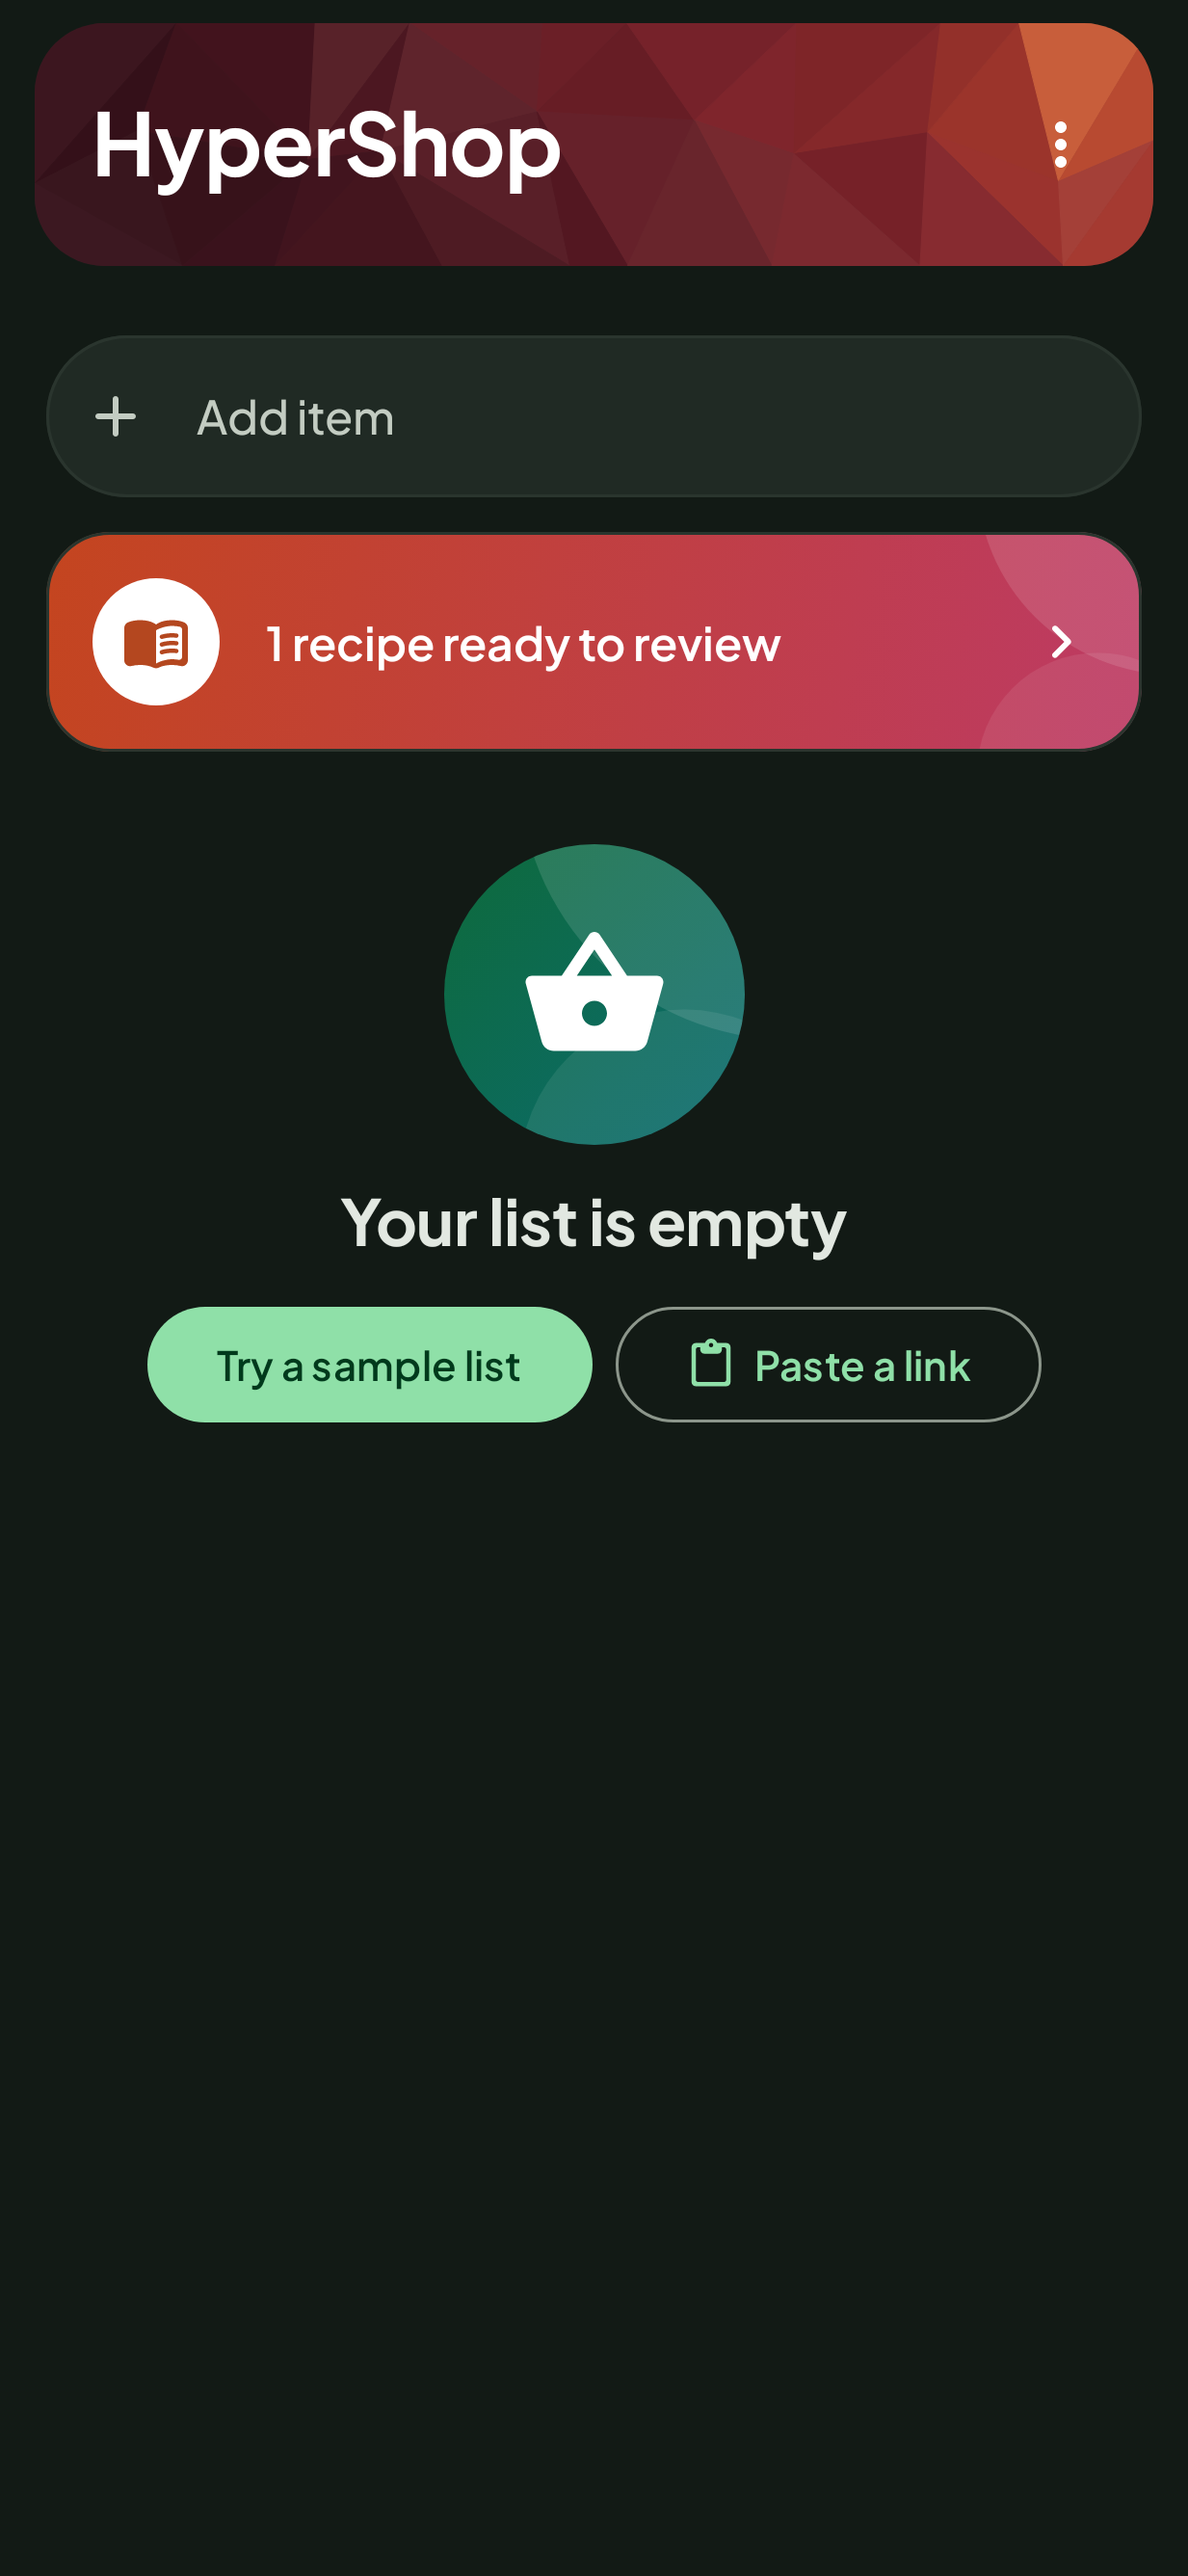
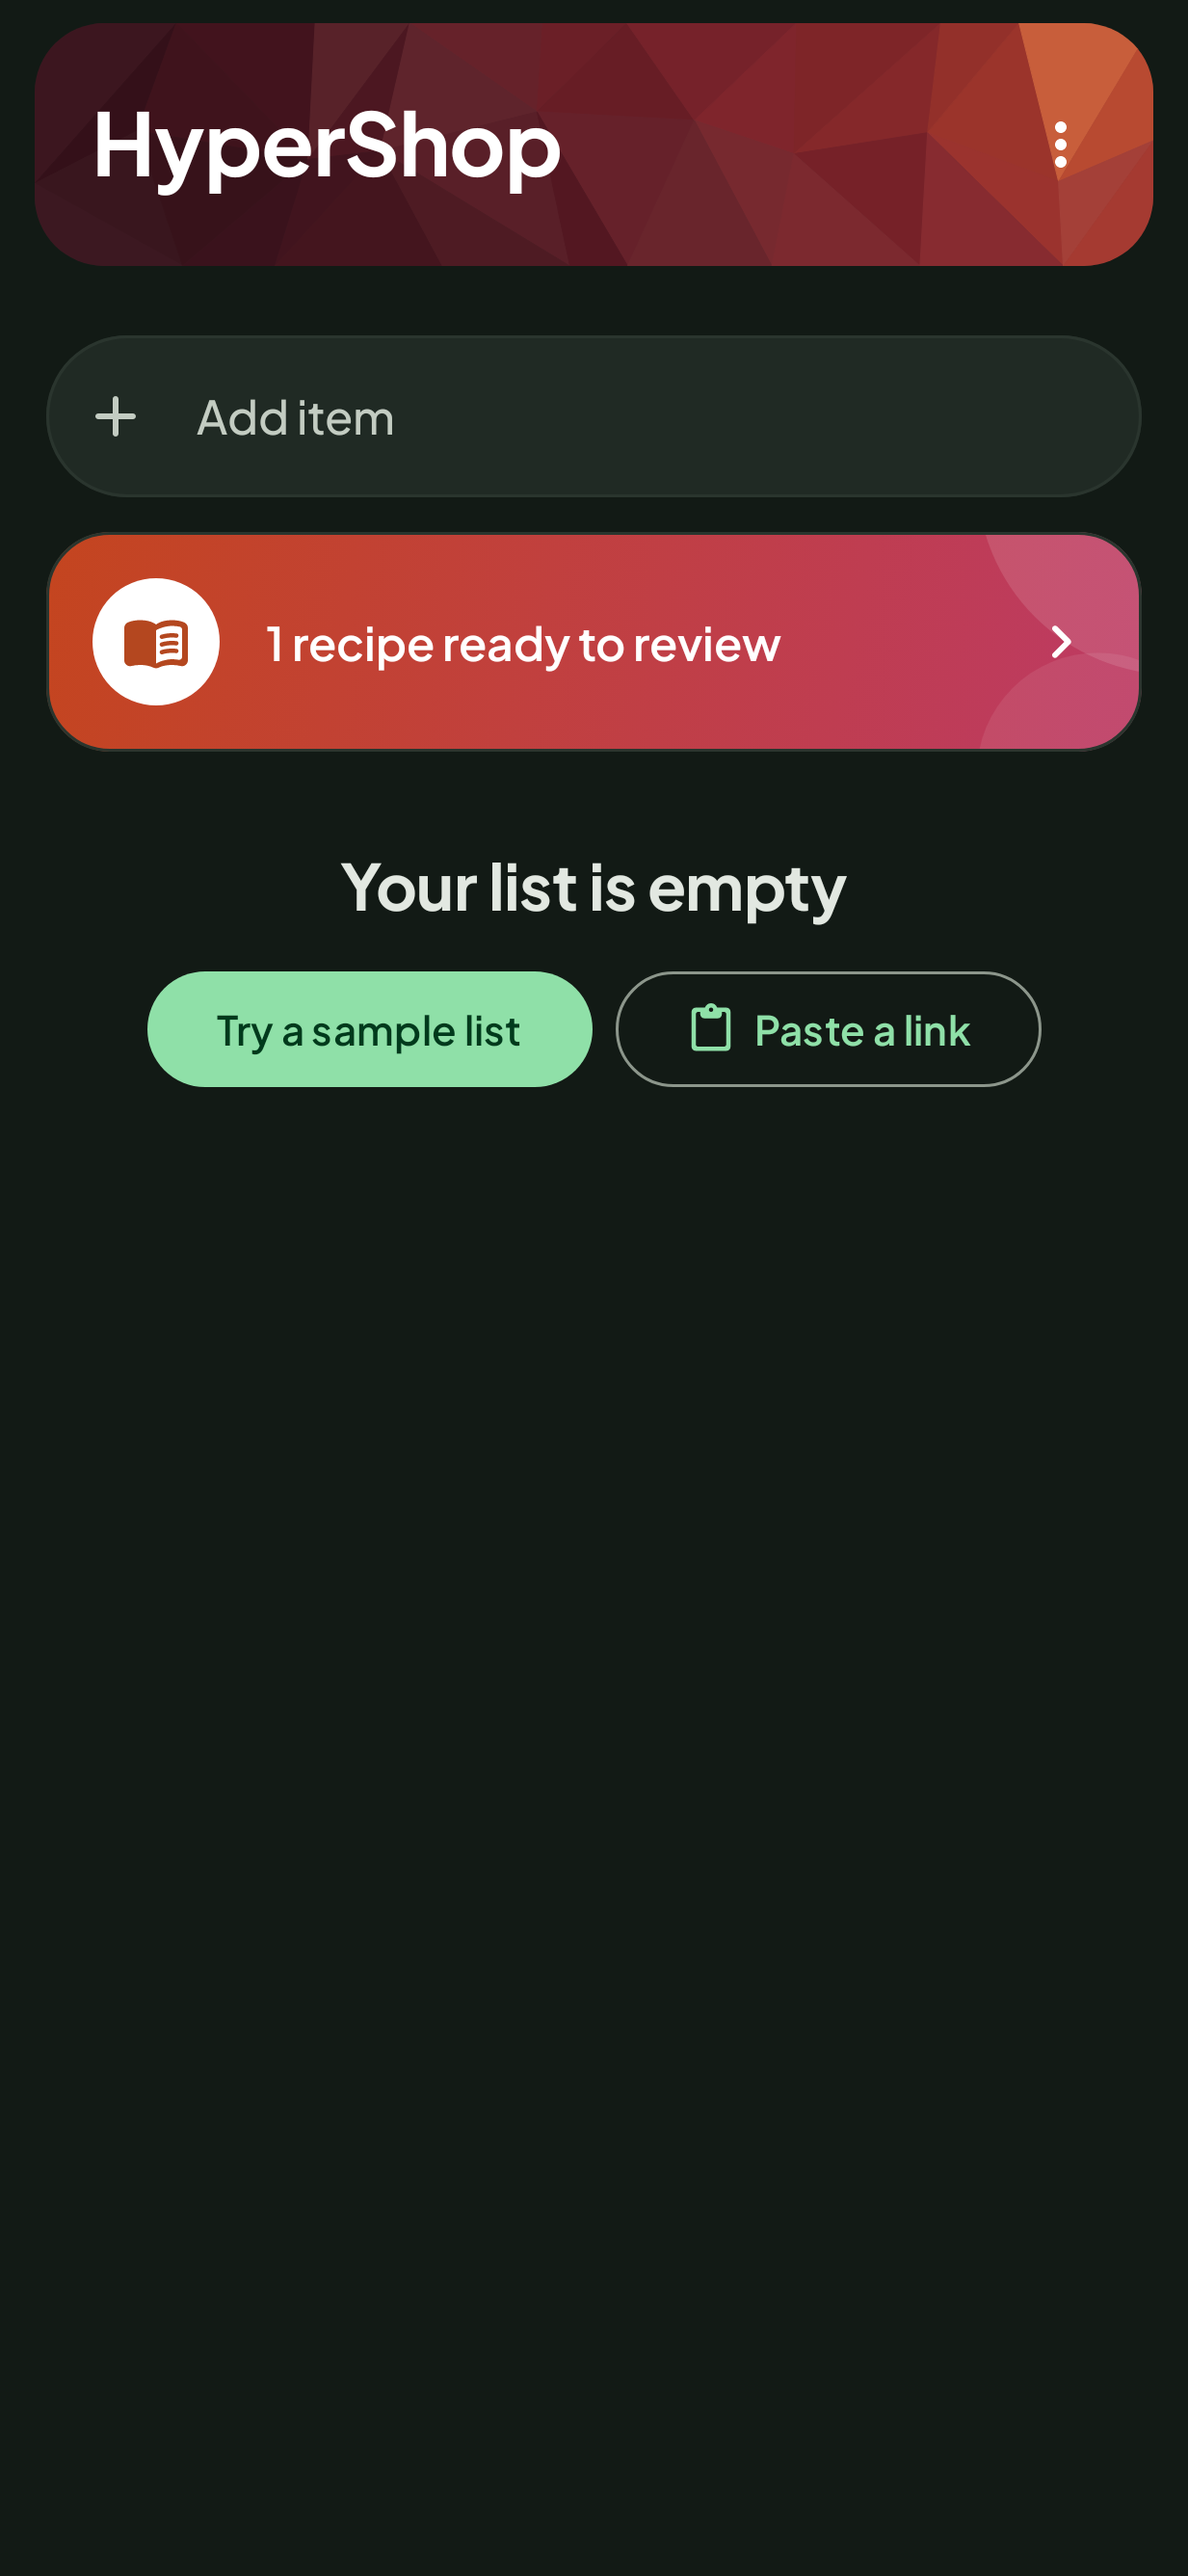
[fix] Quiet ticks, recipes stay once bought, plain empty states
From real use:
- No snackbar on a tick: tapping again is the undo, and the popup covered
  the bottom of the list on every tick.
- A recipe stays on the Recipes tab once all its items are bought, marked
  "All bought", as the week's reminder of what to cook. It goes with
  Remove from list, or the 7-day archive at Finish shopping. The
  hand-added card still goes with its last item.
- The empty list (and empty Recipes tab) lose the icon in a green circle.

Claude-Session: https://claude.ai/code/session_016z2Qp5Lw5mkgJm6Jzuit5a

Changed region(s): [[0.1233, 0.3105, 0.8321, 0.5589], [0.6472, 0.5279, 0.8321, 0.5589]]

diff --git a/android/app/src/main/java/com/robert4lyf/hypershop/ui/recipes/RecipesRoute.kt b/android/app/src/main/java/com/robert4lyf/hypershop/ui/recipes/RecipesRoute.kt
@@ -25,6 +25,7 @@ import androidx.compose.material.icons.automirrored.rounded.MenuBook
 import androidx.compose.material.icons.automirrored.rounded.OpenInNew
 import androidx.compose.material.icons.rounded.Add
 import androidx.compose.material.icons.rounded.Close
+import androidx.compose.material.icons.rounded.DoneAll
 import androidx.compose.material.icons.rounded.Edit
 import androidx.compose.material.icons.rounded.Inventory
 import androidx.compose.material.icons.rounded.Link
@@ -233,10 +234,7 @@ fun RecipesScreen(
                 }
                 if (ui.loaded && ui.uses.isEmpty() && !ui.hasLibrary) {
                     item(key = "empty") {
-                        EmptyHero(
-                            Icons.AutoMirrored.Rounded.MenuBook,
-                            "No recipes yet",
-                        )
+                        EmptyHero("No recipes yet")
                     }
                 }
                 if (ui.hasLibrary) {
@@ -596,7 +594,7 @@ private fun UseCard(
                 val bits =
                     listOfNotNull(
                         use.servings?.let { "Serves $it" },
-                        if (use.itemCount == 1) "1 item on the list" else "${use.itemCount} items on the list",
+                        itemsLine(use.itemCount),
                         use.inStockCount.takeIf { it > 0 }?.let { "$it in stock" },
                     )
                 FlowRow(
@@ -607,7 +605,11 @@ private fun UseCard(
                     val bg = Brand.tint(hue, dark)
                     val fg = Brand.strong(hue, dark)
                     use.servings?.let { Fact(Icons.Rounded.People, "Serves $it", bg, fg) }
-                    Fact(Icons.Rounded.ShoppingCart, if (use.itemCount == 1) "1 item" else "${use.itemCount} items", bg, fg)
+                    when (use.itemCount) {
+                        0 -> Fact(Icons.Rounded.DoneAll, "All bought", bg, fg)
+                        1 -> Fact(Icons.Rounded.ShoppingCart, "1 item", bg, fg)
+                        else -> Fact(Icons.Rounded.ShoppingCart, "${use.itemCount} items", bg, fg)
+                    }
                     if (use.inStockCount > 0) Fact(Icons.Rounded.Inventory, "${use.inStockCount} in stock", bg, fg)
                 }
                 if (url != null) {
@@ -765,7 +767,7 @@ fun UseDetailContent(
                     listOfNotNull(
                         url?.let { siteName(it) } ?: use.bookRef,
                         use.servings?.let { s -> "Serves $s" + (detail.writtenFor?.let { " (written for $it)" } ?: "") },
-                        if (use.itemCount == 1) "1 item on the list" else "${use.itemCount} items on the list",
+                        itemsLine(use.itemCount),
                     )
                 Text(
                     bits.joinToString(" · "),
@@ -817,3 +819,11 @@ fun UseDetailContent(
         }
     }
 }
+
+/** "6 items on the list", or "All bought" once a recipe's shopping is done and it stays as a reminder. */
+private fun itemsLine(n: Int): String =
+    when (n) {
+        0 -> "All bought"
+        1 -> "1 item on the list"
+        else -> "$n items on the list"
+    }

diff --git a/android/app/src/main/java/com/robert4lyf/hypershop/ui/common/Components.kt b/android/app/src/main/java/com/robert4lyf/hypershop/ui/common/Components.kt
@@ -61,8 +61,6 @@ import com.robert4lyf.hypershop.ui.theme.Brand
 import com.robert4lyf.hypershop.ui.theme.LocalDarkTheme
 import com.robert4lyf.hypershop.ui.theme.card
 import com.robert4lyf.hypershop.ui.theme.cardEdge
-import com.robert4lyf.hypershop.ui.theme.heroBrush
-import com.robert4lyf.hypershop.ui.theme.heroGlow
 import com.robert4lyf.hypershop.ui.theme.lowPoly
 import com.robert4lyf.hypershop.ui.theme.style
 
@@ -278,10 +276,9 @@ fun InfoBanner(
     }
 }
 
-/** A large icon in a soft circle, a headline and whatever explains the next step. */
+/** A headline and whatever explains the next step. */
 @Composable
 fun EmptyHero(
-    icon: ImageVector,
     title: String,
     modifier: Modifier = Modifier,
     body: String? = null,
@@ -292,12 +289,6 @@ fun EmptyHero(
         horizontalAlignment = Alignment.CenterHorizontally,
         verticalArrangement = Arrangement.spacedBy(12.dp),
     ) {
-        Box(
-            Modifier.size(104.dp).clip(CircleShape).background(heroBrush).heroGlow(),
-            contentAlignment = Alignment.Center,
-        ) {
-            Icon(icon, contentDescription = null, tint = Brand.OnHero, modifier = Modifier.size(52.dp))
-        }
         Text(title, style = MaterialTheme.typography.headlineSmall)
         body?.let {
             Text(it, style = MaterialTheme.typography.bodyMedium, color = MaterialTheme.colorScheme.onSurfaceVariant)

diff --git a/android/app/src/test/java/com/robert4lyf/hypershop/ui/list/ListViewModelTest.kt b/android/app/src/test/java/com/robert4lyf/hypershop/ui/list/ListViewModelTest.kt
@@ -134,17 +134,10 @@ class ListViewModelTest {
         c.add("2 onions")
         val vm = ListViewModel(c)
         val ui = await(vm.ui) { it.loaded && it.aisles.isNotEmpty() }
-        // A tick is announced, with Undo; tapping again is the undo too.
+        // A tick is quiet; tapping again is the undo.
         vm.toggle(ui.row("onion"))
-        var m = nextMessage(vm)
-        assertEquals("Ticked onion", m.text)
         val done = await(vm.ui) { it.row("onion").state == TickState.DONE }
         vm.toggle(done.row("onion"))
-        await(vm.ui) { it.row("onion").state == TickState.OPEN }
-        vm.toggle(ui.row("onion"))
-        await(vm.ui) { it.row("onion").state == TickState.DONE }
-        m = nextMessage(vm)
-        runBlocking { m.undo!!() }
         await(vm.ui) { it.row("onion").state == TickState.OPEN }
         vm.toggle(ui.row("onion"))
         await(vm.ui) { it.row("onion").state == TickState.DONE }
@@ -166,7 +159,6 @@ class ListViewModelTest {
         runBlocking { m.undo!!() }
         ui = await(vm.ui) { u -> u.aisles.flatMap { it.second }.any { it.name == "carrot" } }
         vm.toggle(ui.row("onion"))
-        assertEquals("Ticked onion", nextMessage(vm).text)
         await(vm.ui) { it.doneCount == 1 }
         vm.finishShopping()
         m = nextMessage(vm)

diff --git a/android/app/src/test/java/com/robert4lyf/hypershop/ui/recipes/RecipesViewModelTest.kt b/android/app/src/test/java/com/robert4lyf/hypershop/ui/recipes/RecipesViewModelTest.kt
@@ -259,6 +259,29 @@ class RecipesViewModelTest {
     }
 
     @Test
+    fun aRecipeStaysOnceEverythingIsBoughtAndHandAddedGoes() {
+        val c = TestContainer.create()
+        c.add(*CHILLI)
+        runBlocking {
+            val p = c.ruleParser.parse("bin bags")
+            c.repository.manualAdd(p.name, p.shopBase(UnitLocale.METRIC), p.shopUnit)
+        }
+        val vm = RecipesViewModel(c).shown()
+        await(vm.ui) { it.uses.size == 2 }
+        // Everything bought: tick it all, then Finish shopping.
+        runBlocking {
+            for (item in c.repository.snapshot().liveItems) c.repository.toggle(item.id)
+            c.repository.finishShopping()
+        }
+        val after = await(vm.ui) { u -> u.uses.size == 1 && u.uses.single().itemCount == 0 }
+        // The recipe is still there to cook; the hand-added card went with its items.
+        assertEquals("Weeknight chilli", after.uses.single().title)
+        // And "Remove from list" still clears it.
+        vm.remove(after.uses.single())
+        await(vm.ui) { it.uses.isEmpty() }
+    }
+
+    @Test
     fun leavingAnEditOrALibraryReAddLeavesNothingReadyToReview() {
         val c = TestContainer.create()
         c.add(*CHILLI)

diff --git a/android/app/src/main/java/com/robert4lyf/hypershop/ui/list/ListViewModel.kt b/android/app/src/main/java/com/robert4lyf/hypershop/ui/list/ListViewModel.kt
@@ -321,21 +321,10 @@ class ListViewModel(
     fun setView(v: ListView) = viewModelScope.launch { c.settings.setListView(v) }
 
     /** The round tick: tick, or untick a DONE row. */
-    fun toggle(row: ListRow) = toggle(row.id, row.name)
+    fun toggle(row: ListRow) = toggle(row.id)
 
-    /**
-     * Tick, or untick a DONE item (the item sheet's button too). A tick gets a
-     * snackbar with Undo, since the row slides away; an untick doesn't, as
-     * tapping again is its undo.
-     */
-    fun toggle(
-        id: Long,
-        name: String,
-    ) = viewModelScope.launch {
-        if (!c.repository.toggle(id)) return@launch
-        // Read back rather than trusting the row on screen: a quick second tap unticks before the list redraws.
-        if (c.repository.snapshot().isDone(id)) messages.send(UiMessage("Ticked $name", undo = { c.repository.untick(id) }))
-    }
+    /** Tick, or untick a DONE item (the item sheet's button too). No snackbar: tapping again is the undo. */
+    fun toggle(id: Long) = viewModelScope.launch { c.repository.toggle(id) }
 
     /** "Delete" on the item card: closes it, with Undo on the list. */
     fun delete(

diff --git a/android/data/src/main/kotlin/com/robert4lyf/hypershop/data/ListRepository.kt b/android/data/src/main/kotlin/com/robert4lyf/hypershop/data/ListRepository.kt
@@ -346,7 +346,10 @@ class ListRepository(
         val shown =
             l.uses.values
                 .map { u -> u to l.contributionsOfUse(u.id).filter { it.itemId in live } }
-                .filter { (u, cs) -> u.archivedAt == null && cs.isNotEmpty() }
+                // A recipe stays once everything is bought, as the week's reminder of what to
+                // cook, until "Remove from list" or the 7-day archive at "Finish shopping".
+                // Hand-added items are only shopping, so that card goes with its last item.
+                .filter { (u, cs) -> u.archivedAt == null && (cs.isNotEmpty() || u.kind == UseKind.RECIPE) }
                 .sortedByDescending { (u, _) -> u.addedAt }
         if (shown.isEmpty()) return emptyList()
         val manual = manualTitle()

diff --git a/android/app/src/main/java/com/robert4lyf/hypershop/ui/list/ListHeader.kt b/android/app/src/main/java/com/robert4lyf/hypershop/ui/list/ListHeader.kt
@@ -19,7 +19,6 @@ import androidx.compose.material.icons.rounded.Add
 import androidx.compose.material.icons.rounded.ChevronRight
 import androidx.compose.material.icons.rounded.ContentPaste
 import androidx.compose.material.icons.rounded.History
-import androidx.compose.material.icons.rounded.ShoppingBasket
 import androidx.compose.material3.AlertDialog
 import androidx.compose.material3.Button
 import androidx.compose.material3.Icon
@@ -197,7 +196,6 @@ fun EmptyState(
     onPasteLink: () -> Unit = {},
 ) {
     EmptyHero(
-        icon = Icons.Rounded.ShoppingBasket,
         title = "Your list is empty",
         modifier = Modifier.padding(top = 8.dp).testTag("empty"),
     ) {

diff --git a/android/app/src/main/java/com/robert4lyf/hypershop/ui/list/ListRoute.kt b/android/app/src/main/java/com/robert4lyf/hypershop/ui/list/ListRoute.kt
@@ -82,7 +82,7 @@ fun ListRoute(
                 onSwap = { to, always -> vm.swapItem(s.id, to, always) },
                 onToggle = {
                     // The sheet shows the state it opened with, so it closes; the list (and the snackbar) show the result.
-                    vm.toggle(s.id, s.name)
+                    vm.toggle(s.id)
                     vm.closeItem()
                 },
             ),
